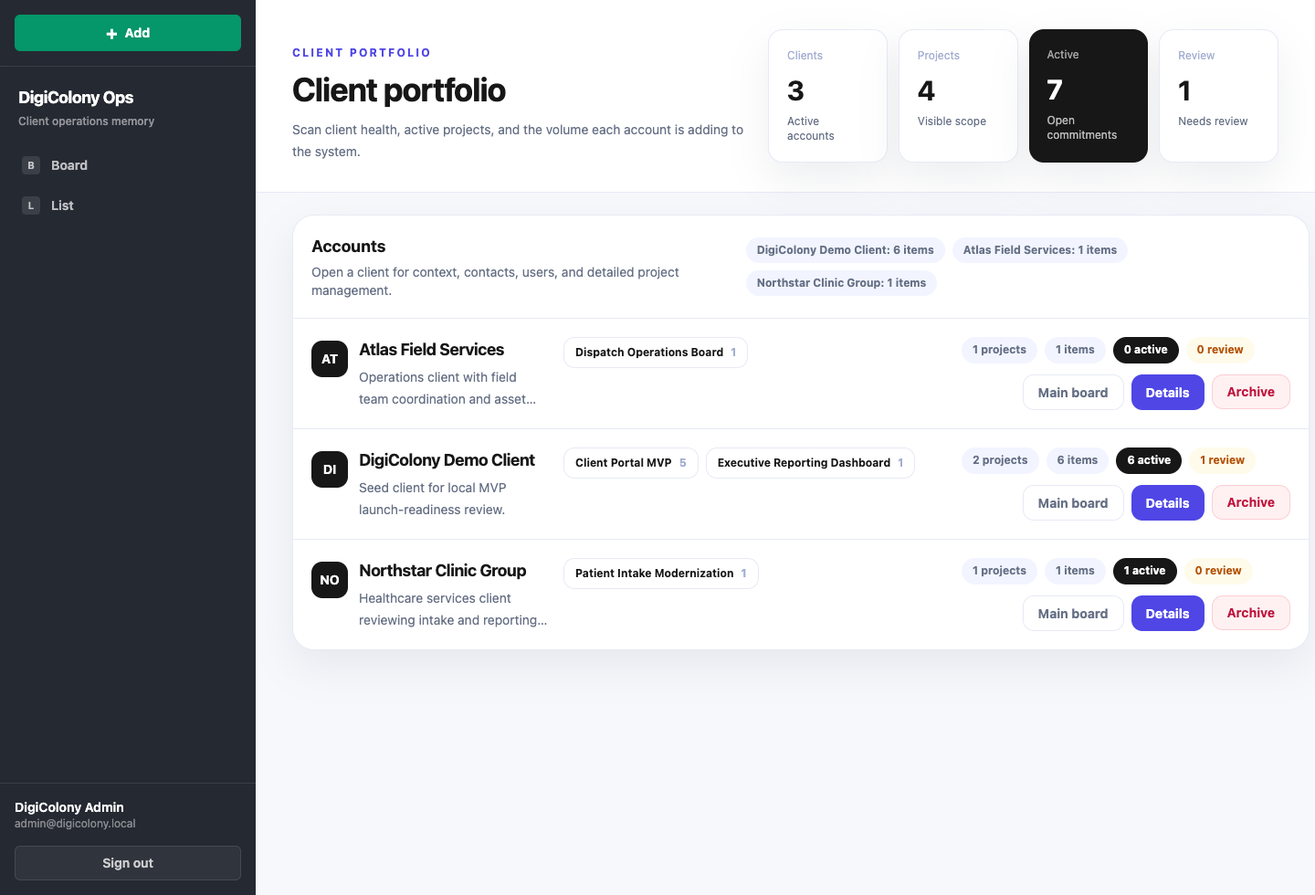
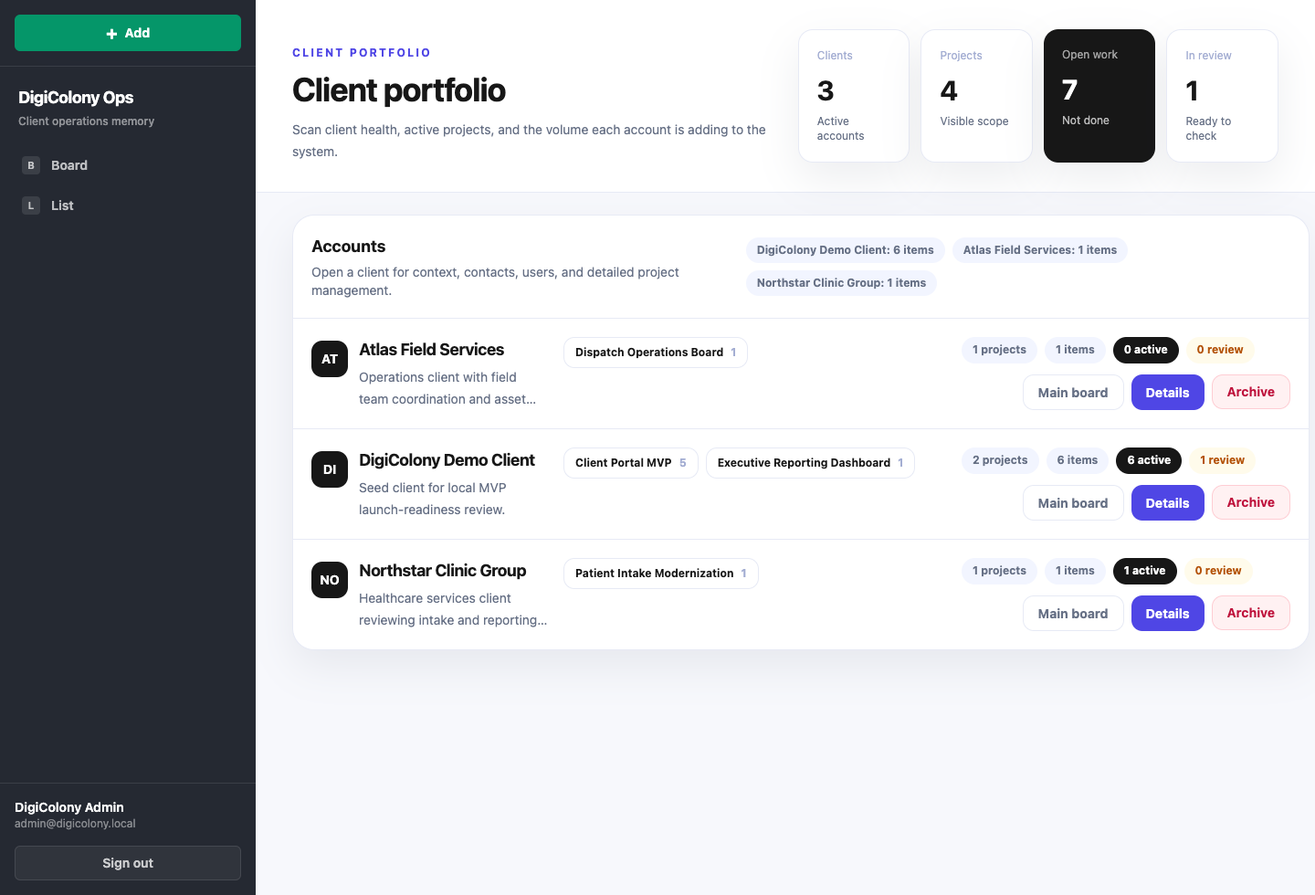
Refine MVP launch UI audit findings

diff --git a/apps/web/app/components/AppShell.tsx b/apps/web/app/components/AppShell.tsx
@@ -2,7 +2,7 @@
 
 import type { PipelineStatusRecord, WorkItemProjectRef, WorkspaceClientRecord } from "@digicolony/shared";
 import Link from "next/link";
-import { usePathname, useSearchParams } from "next/navigation";
+import { usePathname, useRouter, useSearchParams } from "next/navigation";
 import { useState, type ReactNode } from "react";
 import { WorkItemCreateForm } from "../work-items/WorkItemCreateForm";
 import { buttonClass, compactFieldClass, fieldClass } from "./ui";
@@ -32,6 +32,34 @@ const clientNavItems = [
   { href: "/work-items", label: "Board", mark: "B", view: "board" }
 ];
 
+const addTypeContent = {
+  feature: {
+    label: "Feature request",
+    group: "Requests",
+    description: "Track a client-visible improvement or new capability."
+  },
+  bug: {
+    label: "Bug report",
+    group: "Requests",
+    description: "Track a defect, blocker, or broken client experience."
+  },
+  client: {
+    label: "Client",
+    group: "Workspace",
+    description: "Create the account that projects, users, and work items roll up to."
+  },
+  project: {
+    label: "Project",
+    group: "Workspace",
+    description: "Create a client project before organizing related work items."
+  },
+  user: {
+    label: "Client user",
+    group: "Workspace",
+    description: "Invite a client contact who can report and review visible work."
+  }
+} as const;
+
 function isActive(pathname: string, view: string, itemView: string): boolean {
   if (itemView === "report") {
     return pathname.startsWith("/report");
@@ -59,6 +87,7 @@ export function AppShell({
   statuses = []
 }: AppShellProps) {
   const pathname = usePathname();
+  const router = useRouter();
   const searchParams = useSearchParams();
   const view = searchParams.get("view") ?? "board";
   const [addOpen, setAddOpen] = useState(false);
@@ -66,6 +95,26 @@ export function AppShell({
   const defaultStatus = statuses.find((status) => status.isDefault) ?? statuses[0];
   const admin = role === "ADMIN";
   const visibleNavItems = admin ? navItems : clientNavItems;
+  const handleCreateClient = async (formData: FormData) => {
+    await createClientAction(formData);
+    setAddOpen(false);
+    router.refresh();
+  };
+  const handleCreateClientUser = async (formData: FormData) => {
+    await createClientUserAction(formData);
+    setAddOpen(false);
+    router.refresh();
+  };
+  const handleCreateProject = async (formData: FormData) => {
+    await createProjectAction(formData);
+    setAddOpen(false);
+    router.refresh();
+  };
+  const handleCreateWorkItem = async (formData: FormData) => {
+    await createWorkItemAction(formData);
+    setAddOpen(false);
+    router.refresh();
+  };
 
   return (
     <div className="min-h-screen bg-app text-ink lg:grid lg:grid-cols-[280px_1fr]">
@@ -157,35 +206,47 @@ export function AppShell({
         <div className="fixed inset-0 z-50 bg-ink/40 p-4 backdrop-blur-sm" role="presentation">
           <div className="mx-auto mt-10 grid max-h-[calc(100vh-5rem)] w-full max-w-4xl overflow-hidden rounded-2xl bg-white shadow-card md:grid-cols-[220px_1fr]">
             <div className="border-b border-line bg-[#f6f7fb] p-3 md:border-b-0 md:border-r">
-              {[
-                ["feature", "Feature"],
-                ["bug", "Bug"],
-                ["client", "Client"],
-                ["project", "Project"],
-                ["user", "Client user"]
-              ].map(([value, label]) => (
-                <button
-                  key={value}
-                  className={[
-                    "flex w-full items-center gap-3 rounded-md px-3 py-2 text-left text-sm font-bold",
-                    addType === value ? "bg-amber-200 text-ink" : "text-muted hover:bg-white"
-                  ].join(" ")}
-                  data-testid={`global-add-${value}`}
-                  onClick={() => setAddType(value as typeof addType)}
-                  type="button"
-                >
-                  <span className="size-2 rounded-full bg-emerald-600" />
-                  {label}
-                </button>
-              ))}
+              {(["feature", "bug", "client", "project", "user"] as const).map((value, index, values) => {
+                const content = addTypeContent[value];
+                const previousValue = values[index - 1];
+                const previousContent = previousValue ? addTypeContent[previousValue] : null;
+                const showGroup = !previousContent || previousContent.group !== content.group;
+
+                return (
+                  <div key={value}>
+                    {showGroup ? (
+                      <p className={index === 0 ? "px-3 pb-2 text-xs font-bold uppercase tracking-[0.14em] text-soft" : "px-3 pb-2 pt-4 text-xs font-bold uppercase tracking-[0.14em] text-soft"}>
+                        {content.group}
+                      </p>
+                    ) : null}
+                    <button
+                      aria-pressed={addType === value}
+                      className={[
+                        "flex w-full items-start gap-3 rounded-md px-3 py-2 text-left transition",
+                        addType === value ? "bg-amber-200 text-ink" : "text-muted hover:bg-white"
+                      ].join(" ")}
+                      data-testid={`global-add-${value}`}
+                      onClick={() => setAddType(value)}
+                      type="button"
+                    >
+                      <span className="mt-1 size-2 rounded-full bg-emerald-600" />
+                      <span className="min-w-0">
+                        <span className="block text-sm font-bold">{content.label}</span>
+                        <span className="mt-0.5 block text-xs leading-5 text-muted">{content.description}</span>
+                      </span>
+                    </button>
+                  </div>
+                );
+              })}
             </div>
             <div className="max-h-[calc(100vh-5rem)] overflow-auto p-5">
               <div className="mb-4 flex items-start justify-between gap-4">
                 <div>
                   <p className="text-xs font-bold uppercase tracking-[0.16em] text-indigo-600">Add to operations</p>
                   <h2 className="mt-1 text-2xl font-bold text-ink">
-                    {addType === "feature" ? "Feature" : addType === "bug" ? "Bug" : addType === "client" ? "Client" : addType === "project" ? "Project" : "Client user"}
+                    {addTypeContent[addType].label}
                   </h2>
+                  <p className="mt-1 max-w-xl text-sm leading-6 text-muted">{addTypeContent[addType].description}</p>
                 </div>
                 <button className={buttonClass("secondary")} onClick={() => setAddOpen(false)} type="button">
                   Close
@@ -194,7 +255,7 @@ export function AppShell({
 
               {addType === "feature" || addType === "bug" ? (
                 <WorkItemCreateForm
-                  action={createWorkItemAction}
+                  action={handleCreateWorkItem}
                   defaultType={addType === "feature" ? "FEATURE" : "BUG"}
                   lockedPipelineStatusId={defaultStatus?.id}
                   lockedType={addType === "feature" ? "FEATURE" : "BUG"}
@@ -206,7 +267,7 @@ export function AppShell({
               ) : null}
 
               {addType === "client" ? (
-                <form action={createClientAction} className="rounded-2xl border border-line bg-surface p-5" data-testid="global-create-client-form" onSubmit={() => setAddOpen(false)}>
+                <form action={handleCreateClient} className="rounded-2xl border border-line bg-surface p-5" data-testid="global-create-client-form">
                   <input className={compactFieldClass} name="name" placeholder="Client name" required />
                   <textarea className={`mt-3 ${fieldClass}`} name="description" placeholder="Description" rows={4} />
                   <button className={`mt-4 ${buttonClass("primary")}`} type="submit">Create client</button>
@@ -214,7 +275,7 @@ export function AppShell({
               ) : null}
 
               {addType === "project" ? (
-                <form action={createProjectAction} className="rounded-2xl border border-line bg-surface p-5" data-testid="global-create-project-form" onSubmit={() => setAddOpen(false)}>
+                <form action={handleCreateProject} className="rounded-2xl border border-line bg-surface p-5" data-testid="global-create-project-form">
                   <select className={compactFieldClass} name="clientId" required>
                     <option value="">Select client</option>
                     {clients.map((client) => (
@@ -228,7 +289,7 @@ export function AppShell({
               ) : null}
 
               {addType === "user" ? (
-                <form action={createClientUserAction} className="rounded-2xl border border-line bg-surface p-5" data-testid="global-create-client-user-form" onSubmit={() => setAddOpen(false)}>
+                <form action={handleCreateClientUser} className="rounded-2xl border border-line bg-surface p-5" data-testid="global-create-client-user-form">
                   <select className={compactFieldClass} name="clientId" required>
                     <option value="">Select client</option>
                     {clients.map((client) => (

diff --git a/tests/e2e/admin-workflow.spec.ts b/tests/e2e/admin-workflow.spec.ts
@@ -22,17 +22,18 @@ test.describe("admin workflow", () => {
     await page.goto("/clients");
 
     await page.getByRole("button", { name: "+ Add" }).click();
-    await page.getByRole("button", { exact: true, name: "Client" }).click();
+    await page.getByTestId("global-add-client").click();
     const createClientForm = page.getByTestId("global-create-client-form");
     await createClientForm.getByPlaceholder("Client name").fill(clientName);
     await createClientForm
       .getByPlaceholder("Description")
       .fill("Created by the admin workflow e2e test.");
     await createClientForm.getByRole("button", { name: "Create client" }).click();
+    await expect(createClientForm).toBeHidden();
     await page.getByRole("link", { name: clientName }).waitFor();
 
     await page.getByRole("button", { name: "+ Add" }).click();
-    await page.getByRole("button", { exact: true, name: "Project" }).click();
+    await page.getByTestId("global-add-project").click();
     const createProjectForm = page.getByTestId("global-create-project-form");
     await createProjectForm.locator("select[name=clientId]").selectOption({
       label: clientName
@@ -42,6 +43,7 @@ test.describe("admin workflow", () => {
       .getByPlaceholder("Description")
       .fill("Project created by the admin workflow e2e test.");
     await createProjectForm.getByRole("button", { name: "Create project" }).click();
+    await expect(createProjectForm).toBeHidden();
     await page.goto("/work-items?view=list");
     await page.getByRole("link", { name: projectName }).click();
     await page.waitForURL("**/projects/**");
@@ -70,6 +72,7 @@ test.describe("admin workflow", () => {
       .getByPlaceholder("Actual behavior")
       .fill("The item can be moved by an admin.");
     await projectWorkItemForm.getByRole("button", { name: "Create" }).click();
+    await expect(projectWorkItemForm).toBeHidden();
     await page.goto(projectUrl);
 
     const createdLink = page.getByRole("link", { name: workItemTitle }).first();

diff --git a/apps/web/app/work-items/page.tsx b/apps/web/app/work-items/page.tsx
@@ -177,7 +177,11 @@ async function WorkItemsPageContent({
           view={view}
         />
         <p className="mt-2 text-xs text-soft">
-          {selectedFilterCount > 0 ? `${selectedFilterCount} filters active` : "Showing all visible work"}
+          {selectedFilterCount > 0
+            ? `${selectedFilterCount} filters active`
+            : admin
+              ? "Showing all visible work"
+              : "Showing all visible requests"}
         </p>
         {!admin && view === "board" ? (
           <p className="mt-1 text-xs leading-5 text-muted">
@@ -191,8 +195,8 @@ async function WorkItemsPageContent({
           <WorkItemBoard
             admin={admin}
             changeStatusAction={changeWorkItemStatusAction}
-            emptyDescription="Your current filters excluded every visible work item. Clear filters or broaden client/project selections."
-            emptyTitle="No work items match"
+            emptyDescription={admin ? "Your current filters excluded every visible work item. Clear filters or broaden client/project selections." : "Your current filters excluded every visible request. Clear filters or broaden project selections."}
+            emptyTitle={admin ? "No work items match" : "No requests match"}
             items={filteredItems}
             showClientName={admin}
             statuses={statuses}
@@ -202,7 +206,9 @@ async function WorkItemsPageContent({
             <div className="sticky top-0 z-10 border-b border-line bg-surface px-4 py-3">
               <h2 className="text-sm font-bold text-ink">List</h2>
               <p className="text-xs text-muted">
-                {filteredItems.length} visible items grouped by client and project
+                {admin
+                  ? `${filteredItems.length} visible items grouped by client and project`
+                  : `${filteredItems.length} visible requests grouped by project`}
               </p>
             </div>
             <div className="divide-y divide-line">

diff --git a/apps/web/app/clients/page.tsx b/apps/web/app/clients/page.tsx
@@ -77,8 +77,8 @@ export default async function ClientsPage() {
         <div className="grid w-full grid-cols-2 gap-2 sm:grid-cols-4 sm:gap-3 xl:min-w-[520px]">
           <MetricCard detail="Active accounts" label="Clients" value={clients.length} />
           <MetricCard detail="Visible scope" label="Projects" value={projects.length} />
-          <MetricCard detail="Open commitments" label="Active" tone="dark" value={activeWorkItems.length} />
-          <MetricCard detail="Needs review" label="Review" value={reviewWorkItems.length} />
+          <MetricCard detail="Not done" label="Open work" tone="dark" value={activeWorkItems.length} />
+          <MetricCard detail="Ready to check" label="In review" value={reviewWorkItems.length} />
         </div>
       </PageHeader>
 

diff --git a/apps/web/app/clients/[clientId]/page.tsx b/apps/web/app/clients/[clientId]/page.tsx
@@ -110,7 +110,7 @@ export default async function ClientDetailPage({
       >
         <div className="grid w-full grid-cols-3 gap-2 sm:gap-3 xl:min-w-[390px]">
           <MetricCard detail="Visible projects" label="Projects" value={clientProjects.length} />
-          <MetricCard detail="Not done" label="Active" tone="dark" value={activeWorkItems.length} />
+          <MetricCard detail="Not done" label="Open work" tone="dark" value={activeWorkItems.length} />
           <MetricCard detail="Client access" label="Users" value={users.length} />
         </div>
       </PageHeader>

diff --git a/apps/web/app/projects/[projectId]/page.tsx b/apps/web/app/projects/[projectId]/page.tsx
@@ -88,7 +88,7 @@ export default async function ProjectWorkspacePage({
       >
         <div className="grid w-full grid-cols-3 gap-2 sm:gap-3 xl:min-w-[390px]">
           <MetricCard detail={project.clientName ?? project.clientId} label="Total" value={projectItems.length} />
-          <MetricCard detail="Not done" label="Active" tone="dark" value={activeCount} />
+          <MetricCard detail="Not done" label="Open work" tone="dark" value={activeCount} />
           <MetricCard detail="Closed" label="Done" value={doneCount} />
         </div>
       </PageHeader>

diff --git a/apps/web/app/work-items/WorkItemCreateForm.tsx b/apps/web/app/work-items/WorkItemCreateForm.tsx
@@ -42,7 +42,6 @@ export function WorkItemCreateForm({
       action={action}
       className="rounded-3xl border border-line bg-surface p-5 shadow-card"
       data-testid={testId}
-      onSubmit={onCancel ? () => onCancel() : undefined}
     >
       <h2 className="text-lg font-bold tracking-tight text-ink">{title}</h2>
       <p className="mt-1 text-sm leading-6 text-muted">

diff --git a/docs/reviews/mvp-launch-readiness-fix-pass-2026-07-14.md b/docs/reviews/mvp-launch-readiness-fix-pass-2026-07-14.md
@@ -31,6 +31,10 @@ Status: ready for Matthew human validation; PR setup still blocked by missing `o
 - Mobile board now includes a status jump bar above columns.
 - Work item upload controls now show allowed extensions and the 100 MB max file size before selection.
 - Client work item detail now has automated live validation for comments with mentions, blocked file-type upload errors, and allowed asset attachment.
+- Admin metric labels now use clearer launch language: "Open work" and "In review" instead of the denser "Active" and "Review" summary labels.
+- The global Add modal now groups actions into Requests and Workspace, includes short action descriptions, exposes selected state with `aria-pressed`, and uses stable add-option test IDs.
+- The global Add modal now waits for create actions to finish before closing, then refreshes the persistent app shell so newly created clients/projects are available for the next add action.
+- Client Board/List summary and empty-state copy now consistently says "requests" instead of leaking internal "work item" language.
 - Production-like screenshots do not show the dev overlay/issue badge.
 
 ## Remaining Launch Checks
@@ -39,8 +43,8 @@ Status: ready for Matthew human validation; PR setup still blocked by missing `o
 - Matthew should record final go/no-go notes in `docs/reviews/mvp-launch-human-validation-checklist-2026-07-14.md`.
 - Oversize upload error behavior still needs manual validation.
 - Keyboard navigation and screen reader behavior were not fully audited.
-- Admin metric labels such as Active, Review, and Not done still need Matthew's domain-language signoff.
-- The global Add modal remains powerful and should be manually reviewed with a first-time admin.
+- Admin metric wording is improved, but Matthew should still sign off that "Open work," "In review," and "Not done" match DigiColony launch language.
+- The global Add modal is clearer and the create workflow is covered by e2e, but it remains a high-power admin control and should be manually reviewed with a first-time admin.
 - `origin` remote is still missing, so PR review cannot be prepared yet.
 
 ## Validation Log
@@ -51,11 +55,15 @@ Status: ready for Matthew human validation; PR setup still blocked by missing `o
 - `pnpm db:review:reset`: passed against local Docker PostgreSQL.
 - `pnpm exec playwright test tests/e2e/client-reporting.spec.ts --project=chromium`: passed, including client comment, mention text, upload constraint copy, blocked `.html` upload error, and `.txt` asset upload validation.
 - `pnpm exec playwright test tests/e2e/admin-workflow.spec.ts --project=chromium`: passed.
+- `PLAYWRIGHT_BASE_URL=http://localhost:3000 pnpm exec playwright test tests/e2e/admin-workflow.spec.ts --project=chromium --reporter=line`: passed against the rebuilt production server after modal submit/refresh fixes.
+- `PLAYWRIGHT_BASE_URL=http://localhost:3000 pnpm exec playwright test tests/e2e/client-reporting.spec.ts --project=chromium --reporter=line`: passed against the rebuilt production server.
 - `pnpm build`: passed.
 - Post-fix dev screenshot capture: passed.
 - Production-like screenshot capture: passed after starting the built app with `.env` loaded through the new root `pnpm start` behavior.
 - Production-like screenshot capture was refreshed after client-facing terminology changes.
 - Production-like work item detail screenshots were refreshed after upload constraint guidance was added.
+- Production-like screenshots were refreshed again after admin metric wording and global Add modal hierarchy changes.
+- Production-like client Board/List screenshots were refreshed after replacing the remaining client-facing "visible work" copy with "visible requests."
 
 ## Fresh-Eyes Follow-Up
 
@@ -68,9 +76,33 @@ Follow-up fixes completed from that review:
 
 Remaining fresh-eyes risks that still need Matthew signoff:
 
-- Admin metric wording may still be dense for a new admin.
-- The global Add modal may still need a guided first-use pass.
+- Admin metric wording is now clearer, but Matthew should confirm it matches DigiColony's launch vocabulary.
+- The global Add modal is now grouped and more explanatory, but first-time admin review remains appropriate because it can create multiple entity types.
 - Mobile admin board discoverability should be manually checked on a real or emulated mobile viewport.
+
+## Repeat Audit Loop Update
+
+Matthew requested another audit-fix loop on 2026-07-14. This pass fixed or defended the remaining agent pushback as follows:
+
+| Pushback | Resolution | Status |
+| --- | --- | --- |
+| Admin metrics used dense labels such as Active and Review. | Renamed summary metrics to "Open work" and "In review" while keeping "Not done" as supporting detail. | Fixed; Matthew domain-language signoff still requested. |
+| Global Add modal was powerful for a first-time admin. | Grouped actions into Requests and Workspace, added short action descriptions, improved selected state, and refreshed screenshot evidence. | Fixed enough for limited-MVP validation; still worth a first-use manual pass. |
+| Global Add creation flow could race with server actions or stale shell data. | Modal now closes only after create actions resolve and refreshes the app shell so newly created clients/projects are available immediately. Admin e2e now waits for successful close after create. | Fixed and covered by admin e2e. |
+| Client Board/List still leaked "visible work" language. | Changed client summary, list count, and empty-state copy to use "visible requests" and "requests." | Fixed and refreshed in screenshots `15-client-board-desktop.png` and `16-client-list-desktop.png`. |
+| Destructive archive/delete controls needed safety review. | Existing controls already use confirmation prompts and danger styling. Archive remains visible in screenshots for Matthew's manual acceptance. | Defended for limited MVP; manual acceptance still listed. |
+| Mobile admin board discoverability needed real-device review. | Status jump controls remain visible in the refreshed mobile screenshot. Agent cannot prove touch ergonomics from screenshot alone. | Defended as manual validation. |
+| Sparse project context panels can feel unfinished when seeded context is light. | This is an acceptable limited-MVP content/data risk rather than a control hierarchy blocker. Seed/context richness should be reviewed manually before inviting pilot users. | Defended as content polish follow-up. |
+
+## Repeat Fresh-Eyes Result
+
+A repeat fresh-eyes sub-agent reviewed the refreshed production screenshot set and current review docs after the second fix pass. It found no new screenshot-visible blockers. Its remaining pushback was:
+
+- First-time admin Add modal review remains the highest admin comprehension risk, but is defensible for limited MVP after grouping and e2e coverage.
+- Admin metric/status vocabulary still needs Matthew's domain-language signoff.
+- Client Board/List copy leaked one internal phrase; this was fixed after the review.
+- Mobile admin board remains dense and should be validated on real or emulated mobile.
+- Sparse context panels can feel unfinished when content is light; this is defended as seed/content polish rather than a launch blocker.
 
 ## Verdict
 

diff --git a/docs/reviews/mvp-launch-current-screen-action-inventory-2026-07-14.md b/docs/reviews/mvp-launch-current-screen-action-inventory-2026-07-14.md
@@ -36,9 +36,9 @@ Admin screens expose the full hierarchy and management controls. Client screens 
 | `01-sign-in-desktop.png` | Sign in | Admin, client | Enter email, enter password, submit sign-in | Minimal and clear. No self-service reset/support path is visible, which is acceptable for a controlled MVP group if onboarding is manual. |
 | `02-admin-board-desktop.png` | Admin board | Admin | Open Add modal, search work/client/project, filter by client/project, filter by type, clear filters, open work item cards, sign out | Strongest admin overview. Status columns show operational state while cards preserve project/client context. |
 | `03-admin-board-hierarchy-filter-open.png` | Admin hierarchy filter | Admin | Select all clients/projects, select a client, select a project, clear selected hierarchy, dismiss dropdown | Client -> project hierarchy is understandable. Checkbox rows remain a discoverability risk for touch and keyboard users and should be manually checked. |
-| `04-admin-global-add-feature.png` | Admin Add modal | Admin | Choose work item type, choose project, enter title/description, fill feature fields, create, cancel/dismiss | Centralized creation is efficient. The modal is appropriate for MVP, but validation/error states still need manual review. |
+| `04-admin-global-add-feature.png` | Admin Add modal | Admin | Choose request/workspace entity type, choose project, enter title/description, fill feature fields, create, cancel/dismiss | Centralized creation is now grouped into Requests and Workspace with short action descriptions. The modal is appropriate for MVP, and the admin e2e covers create flow success; validation/error states still need manual review. |
 | `05-admin-list-desktop.png` | Admin list | Admin | Switch to Board/List, search/filter, expand or collapse client/project groups, open client, open project, open work item | Best expression of the Client -> Project -> Work item hierarchy. Useful fallback when the board is visually dense. |
-| `06-admin-clients-desktop.png` | Client portfolio | Admin | Open Add modal, open main board by client, open client detail, archive client, open project | Cleaner after review reset. The page supports account scanning and route into work. Destructive archive action still needs confirmation/danger-state review. |
+| `06-admin-clients-desktop.png` | Client portfolio | Admin | Open Add modal, open main board by client, open client detail, archive client, open project | Cleaner after review reset. The page supports account scanning and route into work. Summary metrics now use "Open work" and "In review"; archive uses confirmation and danger styling, but Matthew should still accept the destructive-action pattern for limited launch. |
 | `07-admin-client-detail-desktop.png` | Client detail | Admin | Open main board, open project workspace, edit project, archive project, edit contacts, edit client context, sign out | Project cards now show names, descriptions, counts, and edit/archive controls in read state. This fixed the prior blank-card blocker. |
 | `08-admin-client-context-edit.png` | Client context edit | Admin | Edit client name/description/context fields, save, cancel | Important operational context is editable in place. Long forms need manual keyboard and save/cancel visibility review. |
 | `09-admin-project-workspace-desktop.png` | Project workspace | Admin | Navigate back to clients/client detail, open main board filtered by project, edit project context, open work items | Project context and scoped work are visible. This is admin-only now for client users. |
@@ -48,7 +48,7 @@ Admin screens expose the full hierarchy and management controls. Client screens 
 | `13-client-report-bug-desktop.png` | Client report bug | Client | Select project, choose Report a bug, enter summary/details/steps/expected/actual, attach files, submit, view requests, sign out | Clear primary client entry point. Long form is acceptable for MVP if validation and attachment feedback are friendly. |
 | `14-client-report-feature-desktop.png` | Client report feature | Client | Select project, choose Request a feature, enter summary/details/story/acceptance/value, attach files, submit, view requests | Copy is now client-facing. This screen supports structured intake without exposing admin workflow language. |
 | `15-client-board-desktop.png` | Client request board | Client | Search requests, filter by project, filter by type, clear filters, open visible request, navigate Report/Board, sign out | Client board is reduced and understandable. It shows only client-visible requests, uses request-oriented labels, and explains the active status terms. |
-| `16-client-list-desktop.png` | Client request list | Client | Search/filter, expand/collapse project groups, open visible request | Useful as a lower-density alternative to the board. Client no longer needs account-level navigation to understand the request set. |
+| `16-client-list-desktop.png` | Client request list | Client | Search/filter, expand/collapse project groups, open visible request | Useful as a lower-density alternative to the board. Client no longer needs account-level navigation to understand the request set, and summary copy now uses request language. |
 | `17-client-clients-redirect-desktop.png` | Client `/clients` redirect | Client | Land on request board, continue with request filters/actions | Direct client access to admin client portfolio is redirected, reducing accidental exposure of admin account concepts. |
 | `18-client-client-detail-redirect-desktop.png` | Client `/clients/[clientId]` redirect | Client | Land on request board, continue with request filters/actions | Direct client access to client detail is redirected. This makes the MVP client surface intentionally smaller. |
 | `19-client-project-redirect-desktop.png` | Client `/projects/[projectId]` redirect | Client | Land on project-filtered request board | Direct project workspace access becomes a project-scoped request board. This preserves useful context without exposing admin workspace controls. |
@@ -63,7 +63,7 @@ The current hierarchy and controls are coherent enough for a limited MVP validat
 
 ## Remaining Manual Checks
 
-- Confirm destructive archive/edit flows are acceptable for a limited group and add confirmations if needed.
+- Confirm destructive archive/edit flows are acceptable for a limited group; archive/delete controls already have confirmation prompts and danger styling.
 - Manually verify keyboard navigation, focus order, and screen reader labels on forms, dropdown filters, status controls, and modal interactions.
 - Manually verify oversize upload error behavior.
 - Review mobile board and mobile report form on a real device or browser device emulation.
